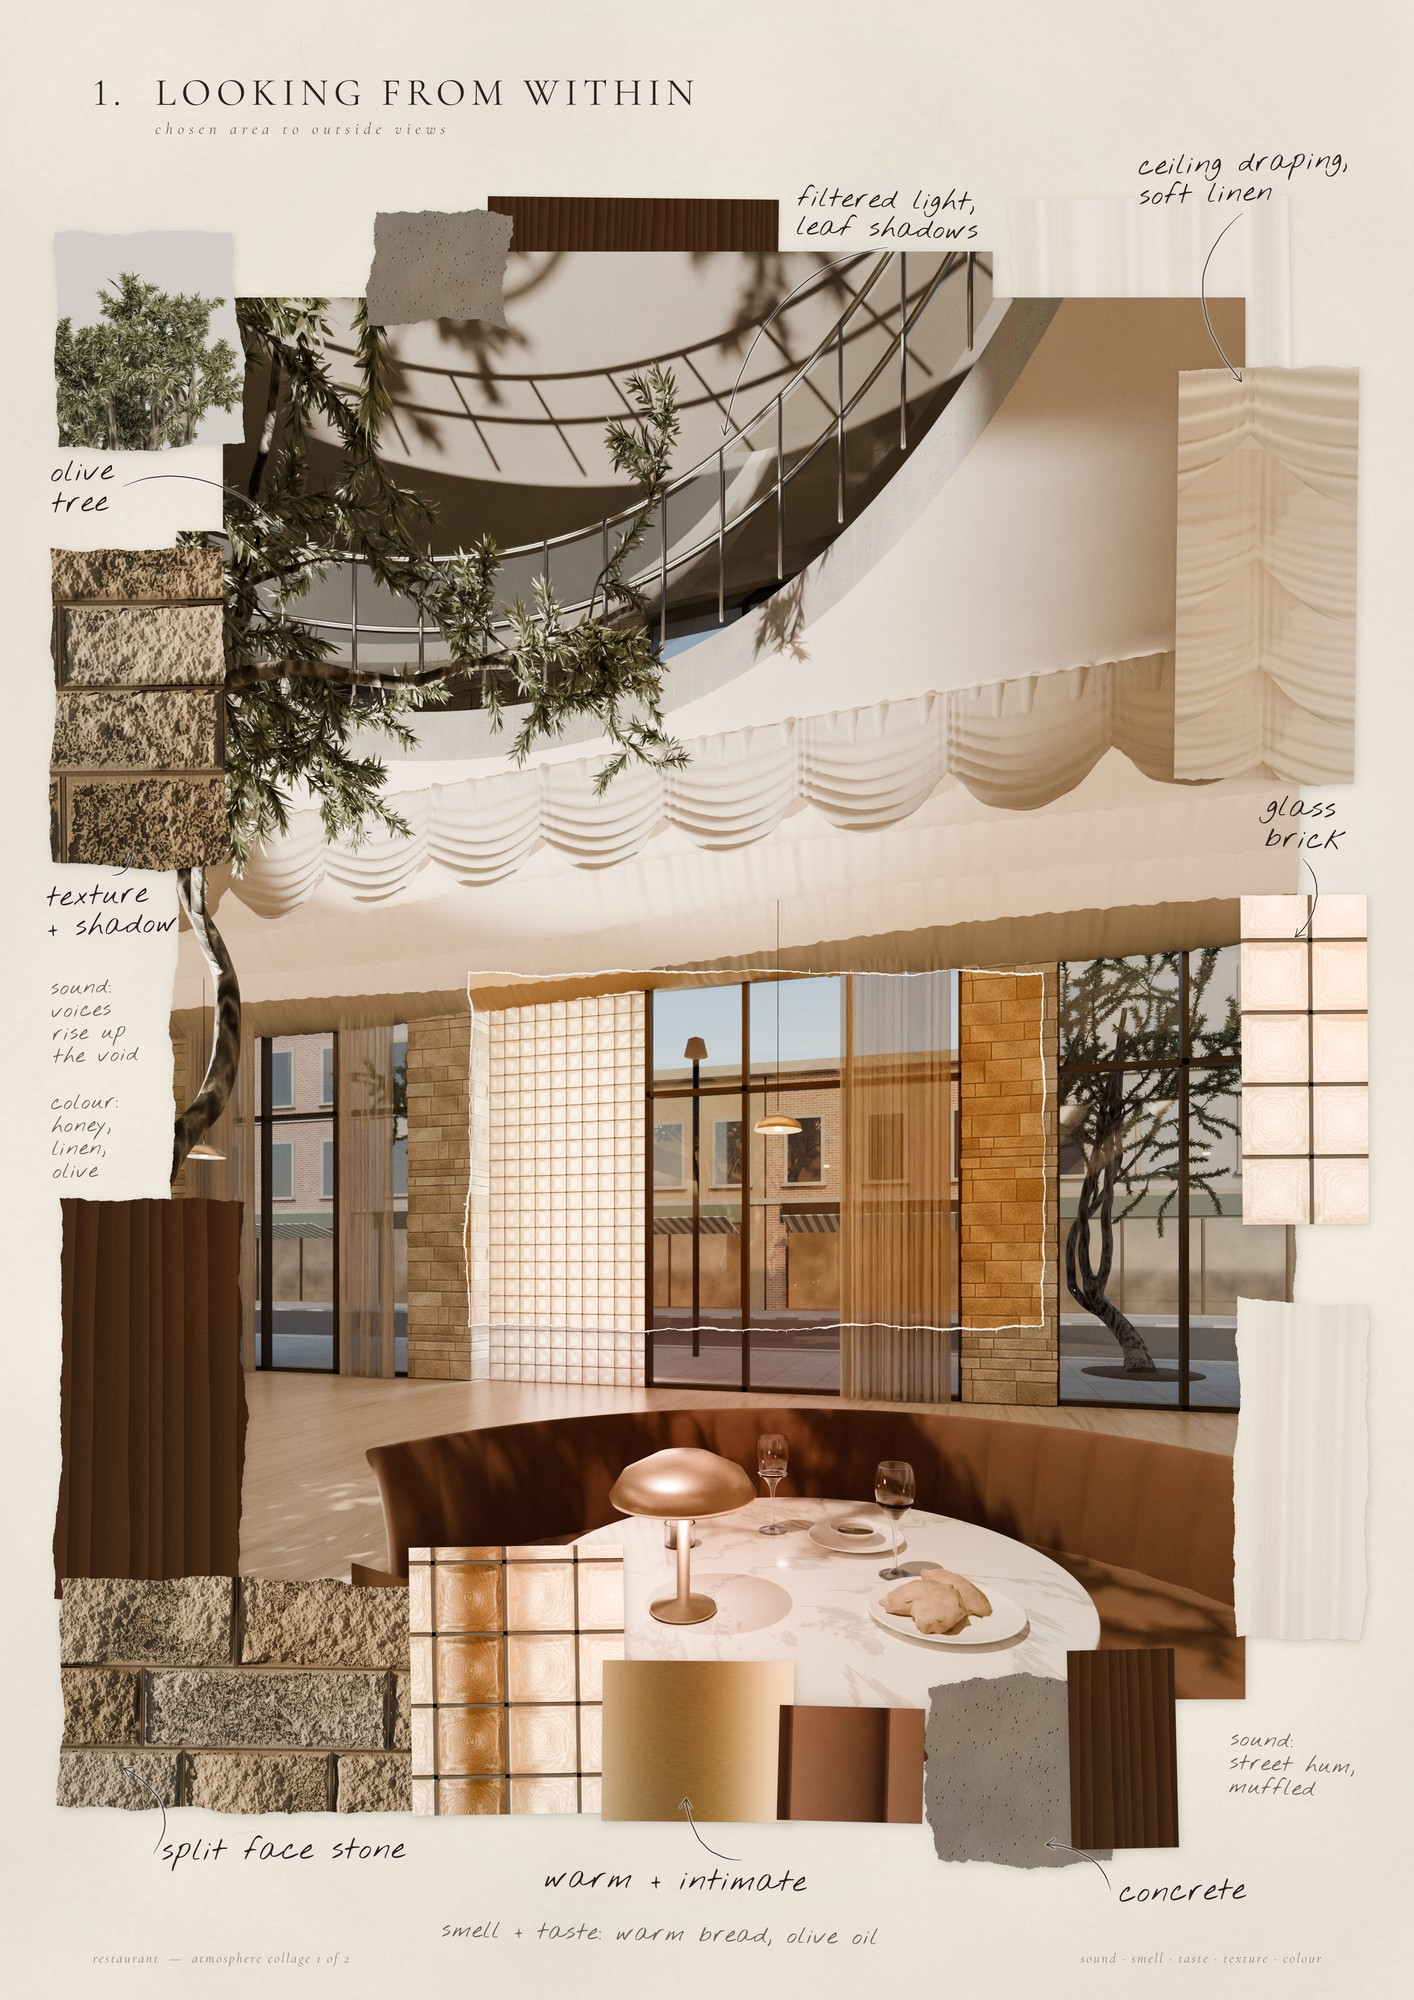
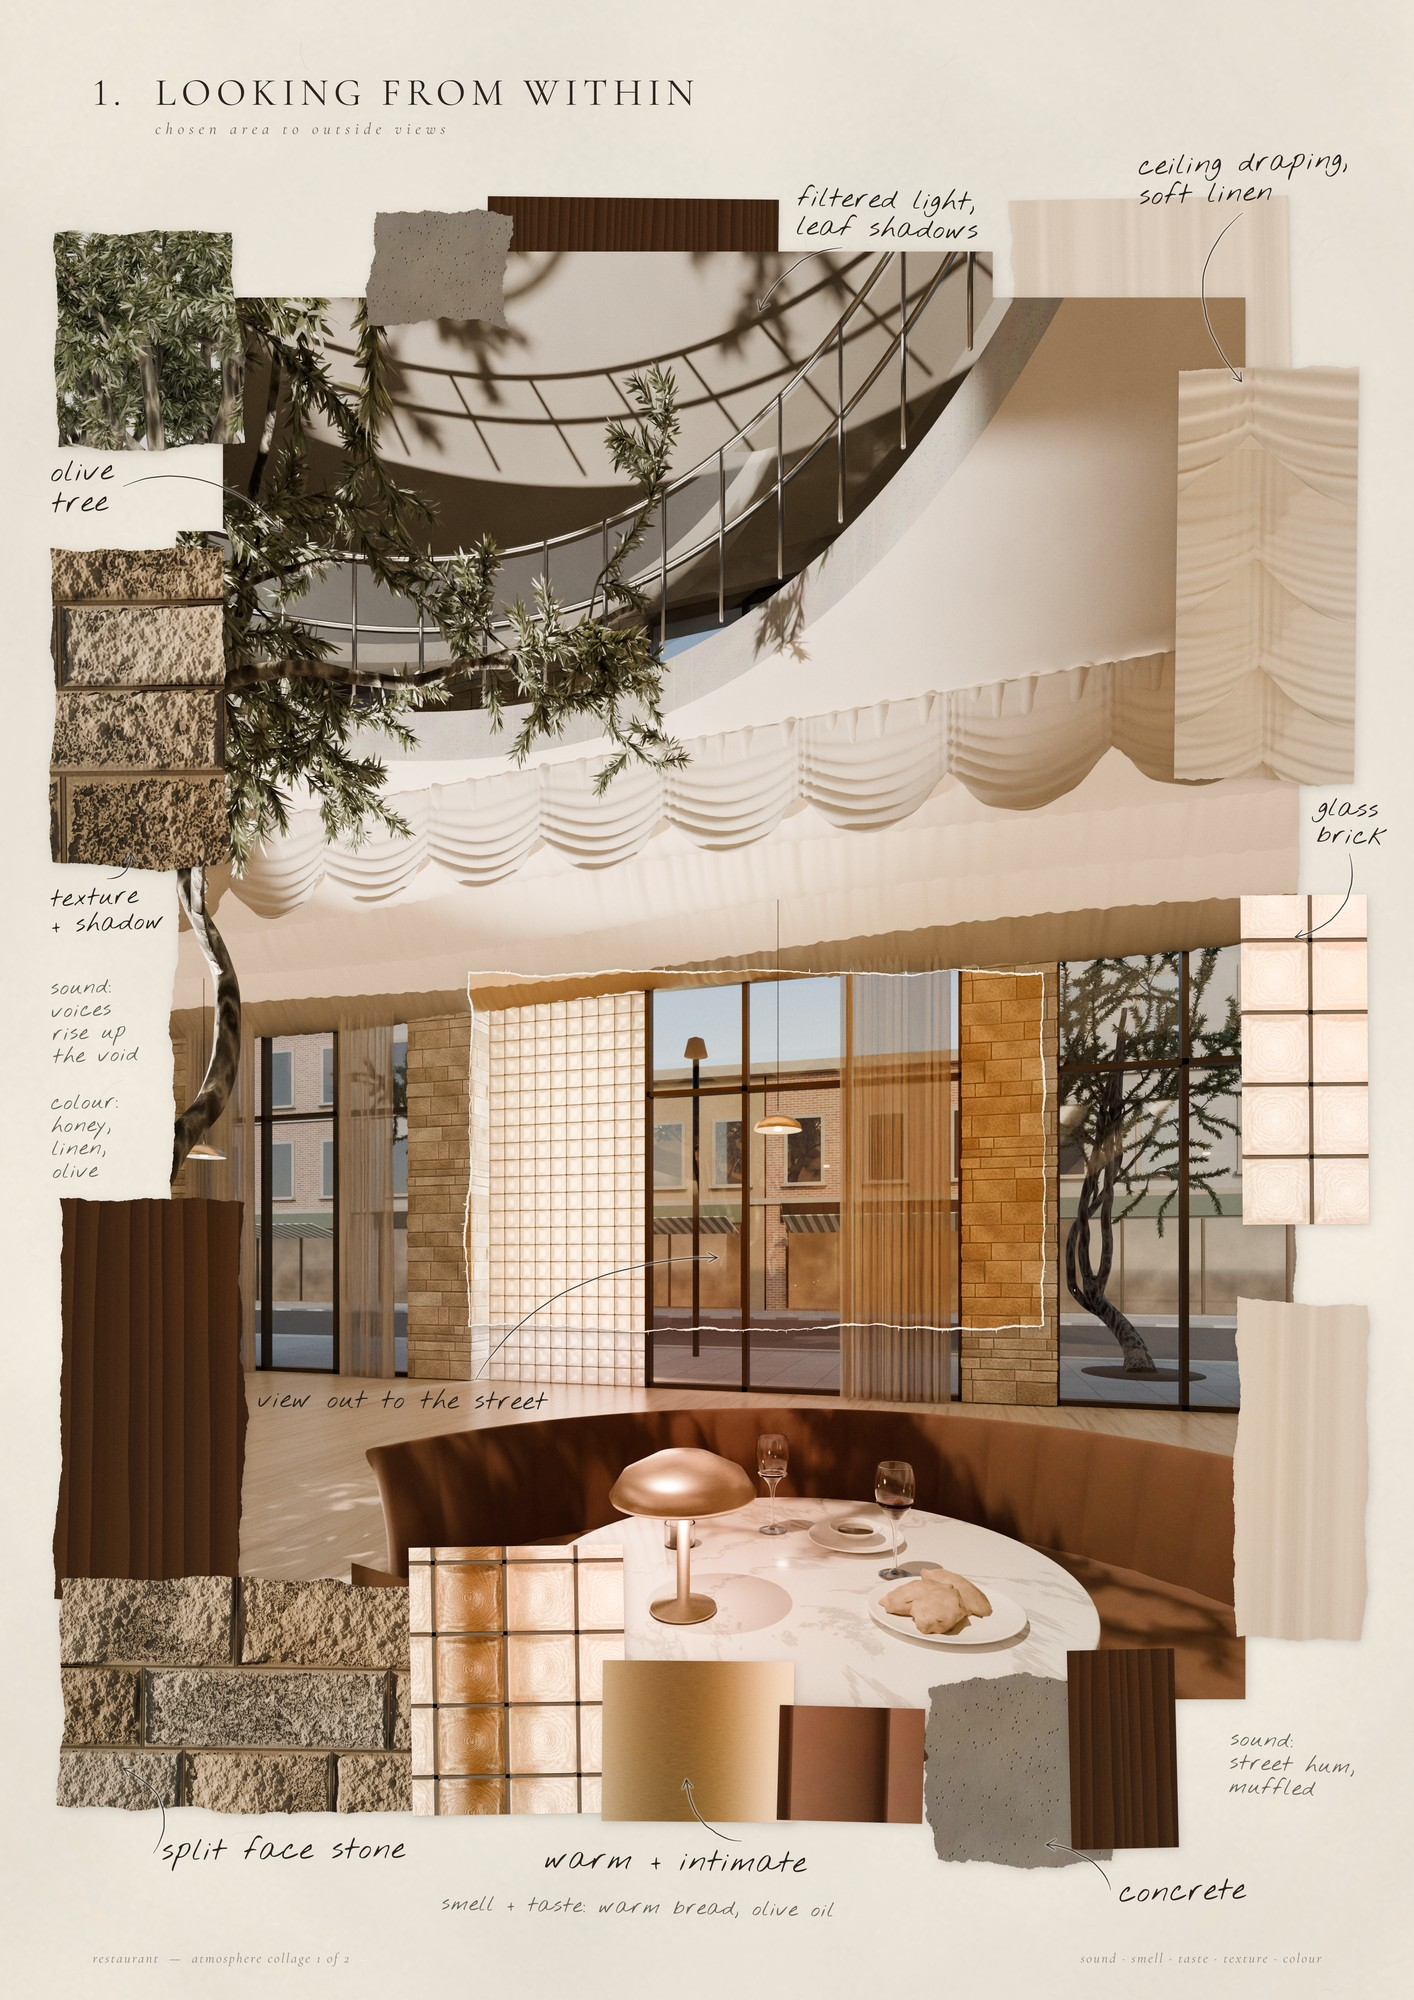
V2 final: sheet 1 QA fixes and re-export (verified: composite identical, re-render within 1/255, 17 live type layers); A3 side-by-side spread; swag batten moved behind the festoon (fixes the hem poke-through)
Claude-Session: https://claude.ai/code/session_018fLRhHpFQLQU35dE5BneQQ

diff --git a/restaurant-collages/src/v2/layout.py b/restaurant-collages/src/v2/layout.py
@@ -68,6 +68,7 @@ EDGE = {'rim': False, 'tear': 0.5, 'shadow': (5, 7, 14, 0.20)}
 LIFT = {'rim': False, 'tear': 0.4, 'shadow': (4, 6, 10, 0.18)}
 CONCRETE = {'color': '#857A6C', 'blend': 'color', 'opacity': 0.75}   # one warm grey over the swatch's mottle
 WHITEN = {'color': '#FFFFFF', 'blend': 'screen', 'opacity': 0.35}     # lime-washed brick reads white
+SHEER = {'color': '#C8A47E', 'blend': 'multiply', 'opacity': 0.30}    # honey, as the backlit sheers read in the render
 
 SHEET1 = {
     'title': {'text': '1.  LOOKING FROM WITHIN', 'x': 230, 'y': 200, 'size': 96, 'tracking': 140},
@@ -93,9 +94,9 @@ SHEET1 = {
         # swatch             crop (u0, v0, u1, v1)       target (x, y, w, h)       rot   edge    z        seed
         # ---- behind the view
         ('dark_timber',      (0.10, 0.12, 0.80, 0.42),  (1180, 380, 760, 300),     -0.7, 'cut',  'behind', 101, {'tone': DARK}),
-        ('sheer_fabric',     (0.15, 0.10, 0.85, 0.60),  (2560, 380, 720, 820),      1.1, 'LB',   'behind', 102),
+        ('sheer_fabric',     (0.15, 0.10, 0.85, 0.60),  (2560, 380, 720, 820),      1.1, 'LB',   'behind', 102, {'tone': {**SHEER, 'opacity': 0.25}}),
         # ---- in front of the view
-        ('olive_leaves',     (0.22, 0.30, 0.88, 0.58),  (60, 470, 470, 560),        1.5, 'torn', 'front',  201),
+        ('olive_leaves',     (0.22, 0.42, 0.59, 0.77),  (60, 470, 470, 560),        1.5, 'torn', 'front',  201),
         ('concrete',         (0.20, 0.10, 0.60, 0.45),  (880, 420, 360, 300),      -1.2, 'torn', 'front',  202, {'tear': 1.0, 'tone': CONCRETE}),
         ('split_face_stone', (0.05, 0.05, 0.30, 0.40),  (40, 1300, 450, 820),       0.6, 'torn', 'front',  203),
         ('dark_timber',      (0.55, 0.30, 0.80, 0.70),  (60, 3000, 480, 1050),     -0.5, 'torn', 'front',  204, {'tone': DARK}),
@@ -105,7 +106,7 @@ SHEET1 = {
         ('velvet',           (0.20, 0.30, 0.60, 0.52),  (1940, 4320, 380, 300),    -1.6, 'cut',  'front',  104, {'tone': CALM}),
         ('linen_drape',      (0.10, 0.05, 0.60, 0.95),  (2980, 820, 470, 1080),    -0.7, 'TB',   'front',  208),
         ('glass_block',      (0.50, 0.10, 0.85, 0.80),  (3150, 2200, 330, 860),     0.4, 'cut',  'front',  209),
-        ('sheer_fabric',     (0.30, 0.10, 0.70, 0.90),  (3130, 3260, 350, 880),    -1.3, 'torn', 'front',  210),
+        ('sheer_fabric',     (0.02, 0.10, 0.38, 0.90),  (3130, 3260, 350, 880),    -1.3, 'torn', 'front',  210, {'tone': SHEER}),
         ('concrete',         (0.20, 0.10, 0.55, 0.55),  (2330, 4260, 440, 480),     2.0, 'torn', 'front',  211, {'tear': 1.0, 'tone': CONCRETE}),
         ('dark_timber',      (0.55, 0.30, 0.80, 0.70),  (2700, 4170, 280, 520),     1.4, 'cut',  'front',  105, {'tone': DARK}),
     ],
@@ -118,17 +119,18 @@ SHEET1 = {
     'notes': [
         # text                    (x, y) baseline   rot    arrow tip       bend   opts
         ('olive\ntree',           (40, 1120),        2.0,  (640, 1250),   -0.25, {'from': 'right', 'size': 76}),
-        ('texture\n+ shadow',     (30, 2230),        2.5,  (250, 2090),    0.35, {'from': 'above', 'size': 74}),
-        ('filtered light,\nleaf shadows', (1990, 400), -1.5, (1800, 1000), 0.25, {'from': 'below', 'size': 70}),
+        ('texture\n+ shadow',     (40, 2230),        2.5,  (250, 2090),    0.35, {'from': 'above', 'size': 64}),
+        ('filtered light,\nleaf shadows', (1990, 400), -1.5, (1892, 674), 0.20, {'from': 'below_left', 'size': 70}),
         ('ceiling draping,\nsoft linen', (2880, 320),  2.0,  (3150, 860),    0.35, {'from': 'below', 'size': 72}),
-        ('glass\nbrick',          (3215, 1990),     -3.0,  (3290, 2310),  -0.35, {'from': 'below', 'size': 76}),
+        ('glass\nbrick',          (3350, 1990),     -3.0,  (3290, 2310),  -0.35, {'from': 'below', 'size': 66}),
+        ('view out to the street', (581, 3537),     -0.5,  (1781, 3147),  -0.20, {'from': 'above_right', 'size': 66}),
         ('split face stone',      (330, 4720),       0.5,  (230, 4480),    0.40, {'from': 'left'}),
-        ('warm + intimate',       (1330, 4790),     -1.0,  (1700, 4560),  -0.30, {'from': 'above_right'}),
+        ('warm + intimate',       (1330, 4740),     -1.0,  (1700, 4510),  -0.30, {'from': 'above_right'}),
         ('concrete',              (2830, 4830),      1.5,  (2640, 4680),   0.25, {'from': 'left'}),
         # the senses (softer, no arrow)
         ('sound:\nvoices\nrise up\nthe void', (40, 2460), 2.0, None,     0.0,  {'style': 'sense', 'size': 54}),
         ('colour:\nhoney,\nlinen,\nolive', (40, 2760), 1.5, None,          0.0,  {'style': 'sense', 'size': 54}),
-        ('smell + taste: warm bread, olive oil', (1060, 4920), -1.0, None,  0.0,  {'style': 'sense'}),
+        ('smell + taste: warm bread, olive oil', (1060, 4850), -1.0, None,  0.0,  {'style': 'sense', 'size': 54}),
         ('sound:\nstreet hum,\nmuffled', (3120, 4420), -2.0, None,       0.0,  {'style': 'sense', 'size': 56}),
     ],
 

diff --git a/restaurant-collages/src/v2/scene/scene.py b/restaurant-collages/src/v2/scene/scene.py
@@ -212,8 +212,8 @@ def drapes():
     """Ceiling draping (sections A-A, B-B; elevations 02, 04)."""
     c = coll('drapes')
     # east zone, between void and facade: swag rows parallel to the facade (along y)
-    for i, xb in enumerate((12.75, 13.65, 14.55, 15.45)):
-        sw = G.swag(f'swagE{i}', Y0 + 0.2, Y1 - 0.2, xb, xb + 0.9, GF - 0.02, sag=0.58, seed=10 + i, coll=c,
+    for i, xb in enumerate((12.9, 13.75, 14.6, 15.45)):         # first batten 15 cm behind the festoon
+        sw = G.swag(f'swagE{i}', Y0 + 0.2, Y1 - 0.2, xb, xb + 0.85, GF - 0.02, sag=0.58, seed=10 + i, coll=c,
                      fold_amp=0.05)
         # swag() spans along its first axis; rotate it so the span runs along y
         _rotate_xy_swap(sw)
